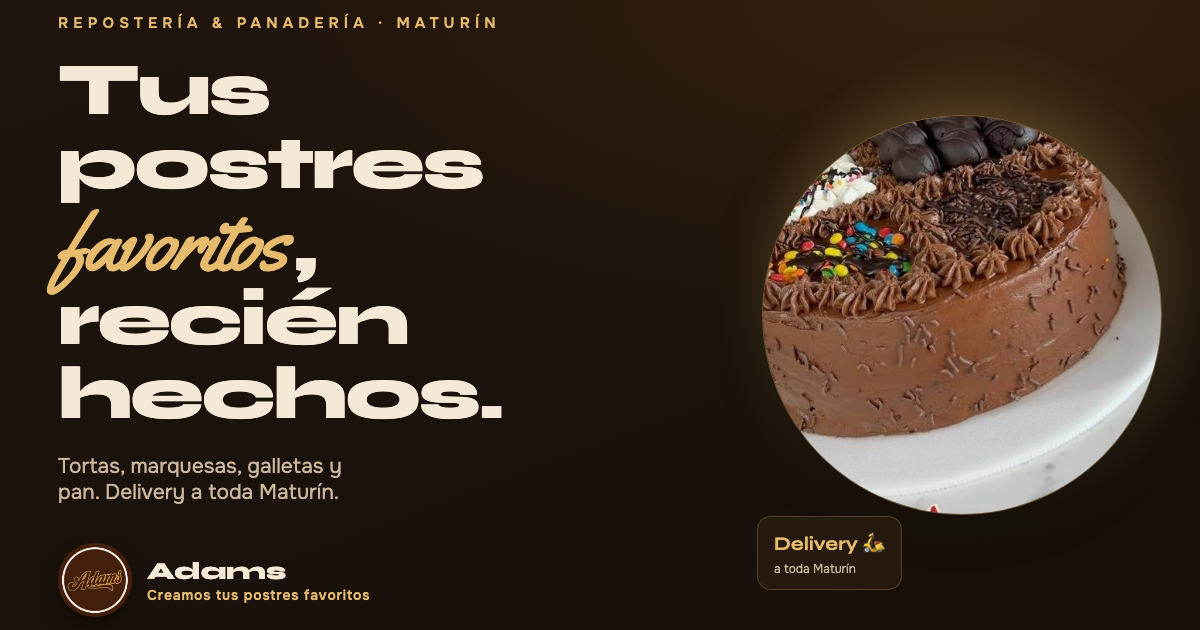
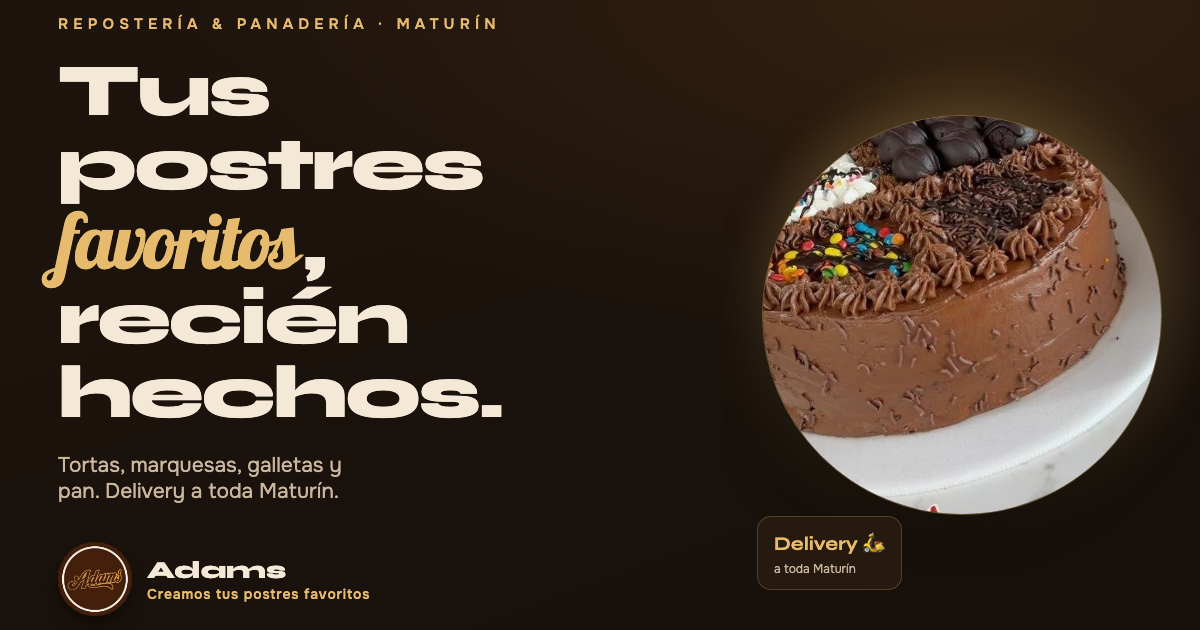
style(adams): «favoritos» pasa a Lobster (letrero retro) por preferencia de Ingrid

diff --git a/adams-maturin/preview.source.html b/adams-maturin/preview.source.html
@@ -1,7 +1,7 @@
 <!doctype html><html lang="es"><head><meta charset="utf-8">
 <link rel="preconnect" href="https://fonts.googleapis.com">
 <link rel="preconnect" href="https://fonts.gstatic.com" crossorigin>
-<link href="https://fonts.googleapis.com/css2?family=Syne:wght@700;800&family=Onest:wght@400;600&family=Yellowtail&display=swap" rel="stylesheet">
+<link href="https://fonts.googleapis.com/css2?family=Syne:wght@700;800&family=Onest:wght@400;600&family=Lobster&display=swap" rel="stylesheet">
 <style>
 *{margin:0;box-sizing:border-box}
 html,body{width:1200px;height:630px;overflow:hidden}
@@ -10,7 +10,7 @@ body{display:flex;font-family:"Onest",sans-serif;color:#F4E8D6;
 .left{flex:1.12;padding:64px 58px;display:flex;flex-direction:column;justify-content:center;position:relative}
 .eyebrow{font-size:15px;letter-spacing:.34em;text-transform:uppercase;color:#E6BB6E;font-weight:600;margin-bottom:20px}
 h1{font-family:"Syne";font-weight:800;font-size:74px;line-height:1.0;letter-spacing:-.03em}
-h1 em{font-family:"Yellowtail",cursive;font-weight:400;font-style:normal;color:#E6BB6E;font-size:1.12em;line-height:1;display:inline-block;padding-right:.1em}
+h1 em{font-family:"Lobster",cursive;font-weight:400;font-style:normal;color:#E6BB6E;font-size:1.04em;line-height:1;display:inline-block;padding-right:.08em}
 .sub{font-size:21px;color:#CBB79E;margin-top:22px;max-width:22ch}
 .brand{display:flex;align-items:center;gap:15px;margin-top:38px}
 .brand img{width:74px;height:74px;border-radius:50%;box-shadow:0 10px 24px -10px #000}

diff --git a/adams-maturin/index.html b/adams-maturin/index.html
@@ -22,7 +22,7 @@
 
 <link rel="preconnect" href="https://fonts.googleapis.com">
 <link rel="preconnect" href="https://fonts.gstatic.com" crossorigin>
-<link href="https://fonts.googleapis.com/css2?family=Syne:wght@600;700;800&family=Onest:wght@300;400;500;600;700&family=Yellowtail&display=swap" rel="stylesheet">
+<link href="https://fonts.googleapis.com/css2?family=Syne:wght@600;700;800&family=Onest:wght@300;400;500;600;700&family=Lobster&display=swap" rel="stylesheet">
 
 <style>
 :root{
@@ -91,7 +91,7 @@ img{max-width:100%;display:block}
 .hero-grid{position:relative;z-index:1;display:grid;grid-template-columns:1.08fr .92fr;gap:clamp(24px,5vw,60px);align-items:center;
   padding:clamp(40px,7vw,88px) 0 clamp(48px,8vw,96px)}
 .hero h1{font-size:clamp(3rem,7.6vw,6rem);letter-spacing:-.03em}
-.hero h1 em{font-family:"Yellowtail",cursive;font-weight:400;font-style:normal;color:var(--oro);font-size:1.16em;line-height:1;display:inline-block;padding:.06em .14em .12em .12em}
+.hero h1 em{font-family:"Lobster",cursive;font-weight:400;font-style:normal;color:var(--oro);font-size:1.08em;line-height:1;display:inline-block;padding:.04em .1em .1em .06em}
 .hero-lead{color:var(--crema-soft);font-size:clamp(1.05rem,1.6vw,1.25rem);max-width:34ch;margin-top:1.1em}
 .hero-cta{display:flex;flex-wrap:wrap;gap:.8rem;margin-top:1.9em}
 .hero-tags{display:flex;flex-wrap:wrap;gap:.5rem;margin-top:2rem}

diff --git a/REGISTRO.md b/REGISTRO.md
@@ -28,7 +28,7 @@ Base: `https://mnonline2001.github.io/medine-demos/<slug>/`
 | Deco Globos Yanher — floristería + globos + cajas de regalo (al lado de la UBV, Maturín) | `deco-globos` | **verde+dorado de su logo** (v2): mint #EBF2E0/#E1ECD2 + verde #46613E/#2E4A2B + dorado #AE853A/#8C671E; blush #EAC9CF de acento romántico | Marcellus + Hanken Grotesk; boutique romántica con aire; **base CLARA** (variante oscura propia) | boutique/atelier de flores: secciones numeradas + logo real (globo D/G, SVG fiel) + fotos en **marcos dorados con ramilletes florales** (SVG) + banda romántica con el logo; sin sección de precios/"bolsillos" | **"Arma tu ramo"**: ramo SVG que florece en vivo (`:has()`), wa.me armado "consulta el precio" (sin precios) + **lluvia de pétalos dorados al entrar** (SVG, respeta reduced-motion) + brillo `@property` en el hero; IO revelados | **tallo-nav** (desktop) + **hamburguesa→menú desplegable** (móvil, no full-screen) / **footer-herbario** con etiqueta de espécimen y ramillete | fotos en **marco dorado ornamental con ramillete floral** (SVG, NO mask-radial); **CTA botón-pétalo** (border-radius asimétrico, NO clip-path) | 2026-09-15 | PUBLICADA 2026-09-15 (v2 romántica verde+dorado con su logo real y pétalos dorados); WhatsApp 0424-939-9083 (584249399083); marca real "Deco Globos Yanher"; IG @decoglobosflores (Ingrid lo dio; el logo verificado también existe como @decoglobos.yanher 0424-171-5194 — confirmar cuál linkar); sin precios; gancho: no aparece en Google Maps y sus competidoras sí; pendiente: cambiar el logo SVG por el PNG real de la tienda |
 | Uniformes Munir — uniformes escolares/deportivos/corporativos + bordado/sublimación/láser (Calle Azcue, Maturín) | `uniformes-munir` | negro #16130E + **amarillo #F5C518** + **rojo #E4002B** (su marca, del logo real); base clara papel #FBFAF4 | Fjalla One + Mulish; bold retail/ofertas; base clara con hero y servicios en negro | landing-tienda de temporada escolar por institución (retail bold): usa su **logo real** y fotos reales (fachada, perchas, Mater Dei, deportivo, bordado) | **"Elige tu colegio o equipo"**: buscador con autocompletado (colegio/carrera/equipo — Mater Dei, Fermín Toro, Enfermería, tenis + texto libre) que recolorea un uniforme SVG genérico propio y arma el pedido por WhatsApp; motivo de **costura** (bordes punteados) como firma | barra negra con costura amarilla + hamburguesa→menú (móvil) / **footer "etiqueta de cuidado"** (tag de ropa con agujeros, costura y símbolos de cuidado) | tarjetas de catálogo con etiqueta-precio roja rotada y foto con zoom; CTA rojo/amarillo con contorno punteado (costura), NO clip-path | 2026-09-15 | demo lista y PUBLICADA; landing-tienda propia branded — se envía junto a **CASA** `tienda.medine.tech` (demo compartida de Francisco) para que prueben funcionalidades reales; NO rebrandear CASA. WhatsApp 0424-907-1043 (584249071043); IG @uniformesmunir; buscador con 4 instituciones de ejemplo (Ingrid pasará la lista real); prospecto grande/lento (grupo Munir multi-tienda), Google sin reclamar, dominio caído; contacto en persona (Ingrid dejó tarjeta 14-sep) |
 | Repostería La Doña de Oriente — repostería tradicional: tortas, encargos, raciones, dulces (Calle Monagas, frente a Plaza del Estudiante, Maturín) | `la-dona-de-oriente` | crema #FBF5EC/#F5EAD9 + tinta cacao-rosa #4A2A25/#7C4A46; **rosa polvo #E09CA5** + rosa fuerte #BE6B78 (acento, muestreado del logo); oro-rosa #C79A54/#EFD59A (foil); footer cacao casi-negro #1C120F | Bodoni Moda (Didone display) + Albert Sans; elegante-heritage con aire; **base CLARA** (variante oscura propia) | "crónica de aniversario": la biografía en **línea de tiempo** (1996→hoy, 28 años) entre hero, catálogo y contacto — vende la HISTORIA de Vilma & Luis (sección biográfica que pidió Ingrid) | **sello de aniversario con foil oro-rosa (@property conic) + vela SVG que titila** + composer "Encarga tu torta" (chips :has() → wa.me armado) + IO reveals | **nav medallón centrado** (logo redondo entre los links, se encoge al scroll; móvil = details-menu, no full-screen) / **footer-dedicatoria firmada** por Vilma & Luis (tarjeta de agradecimiento en cacao casi-negro) | **tarjetas arco de repostería** (arch-top, hover-zoom) con foto real; CTA **píldora oro-rosa** (sin clip-path, sin mask) | 2026-09-16 | PUBLICADA 2026-09-16; WhatsApp 584249314313 (0424-931.43.13, de su bio IG); IG @ladona_oriente_reposteria (5.540 seg); sin web previa; sin precios (no publican); fundadores Vilma Valero & esposo Luis; contacto Sr. Luis Campos; EST 1996; ganchos: sin web, historia solo contada por prensa, FB sin foto de perfil |
-| Adams — repostería &amp; panadería: tortas decoradas, tortas frías, marquesas, galletas, pan (Calle Monagas con Calle 7, Sector Centro, Maturín) | `adams-maturin` | base OSCURA espresso #17100B/#1E140D + panel #251910; **chocolate de marca #441F0B** + **oro #E6BB6E/#C59053** (muestreados del logo); crema texto #F4E8D6 | Syne (display grotesque bold) + Onest + **Yellowtail** (acento pincel retro grueso en «favoritos», elegido por Ingrid — eco del logo de Adams); **base OSCURA cinematográfica** (rompe la racha clara de reposterías y CONTRASTA a propósito con La Doña, mismo rubro/calle) | "escaparate goloso nocturno / editorial oscuro": hero con el producto en disco iluminado + marquee dorado + especialidades en **bandas editoriales a foto completa alternadas 01–04** (NO grid de tarjetas) | **reflector dorado que sigue el cursor** en el hero (mousemove→radial-gradient; táctil = órbita CSS) + **marquee dorado** de especialidades + disco con anillo giratorio + IO reveals | barra oscura translúcida con filete dorado (se solidifica al scroll), logo dorado izq + CTA "Pedir"; móvil = details-menu / **footer oscuro** con wordmark "Adams" gigante + RIF + grid de contacto | **bandas a foto completa** (marco con degradado inferior + hover-zoom, `minmax(0,1fr)`) + **chips-antojo dorados** que enlazan wa.me directo; CTA píldora dorada con glow (sin clip-path, sin mask) | 2026-09-16 | PUBLICADA 2026-09-16; WhatsApp 584126441840 (0412-644-1840, del wa.link de su bio); IG @adams_maturin (3.113 seg); sin web previa; RIF J-50228043-0; delivery a toda Maturín; sin precios; ganchos: sin web (su feed es 100% gráficas de IG, no una web real), delivery sin canal propio; ⚠ mismo rubro y calle que La Doña → por eso base oscura y arquetipo opuestos |
+| Adams — repostería &amp; panadería: tortas decoradas, tortas frías, marquesas, galletas, pan (Calle Monagas con Calle 7, Sector Centro, Maturín) | `adams-maturin` | base OSCURA espresso #17100B/#1E140D + panel #251910; **chocolate de marca #441F0B** + **oro #E6BB6E/#C59053** (muestreados del logo); crema texto #F4E8D6 | Syne (display grotesque bold) + Onest + **Lobster** (acento pincel/letrero retro grueso en «favoritos», elegido por Ingrid — eco del logo de Adams); **base OSCURA cinematográfica** (rompe la racha clara de reposterías y CONTRASTA a propósito con La Doña, mismo rubro/calle) | "escaparate goloso nocturno / editorial oscuro": hero con el producto en disco iluminado + marquee dorado + especialidades en **bandas editoriales a foto completa alternadas 01–04** (NO grid de tarjetas) | **reflector dorado que sigue el cursor** en el hero (mousemove→radial-gradient; táctil = órbita CSS) + **marquee dorado** de especialidades + disco con anillo giratorio + IO reveals | barra oscura translúcida con filete dorado (se solidifica al scroll), logo dorado izq + CTA "Pedir"; móvil = details-menu / **footer oscuro** con wordmark "Adams" gigante + RIF + grid de contacto | **bandas a foto completa** (marco con degradado inferior + hover-zoom, `minmax(0,1fr)`) + **chips-antojo dorados** que enlazan wa.me directo; CTA píldora dorada con glow (sin clip-path, sin mask) | 2026-09-16 | PUBLICADA 2026-09-16; WhatsApp 584126441840 (0412-644-1840, del wa.link de su bio); IG @adams_maturin (3.113 seg); sin web previa; RIF J-50228043-0; delivery a toda Maturín; sin precios; ganchos: sin web (su feed es 100% gráficas de IG, no una web real), delivery sin canal propio; ⚠ mismo rubro y calle que La Doña → por eso base oscura y arquetipo opuestos |
 
 ## Tarjetas de vista previa (og:image)
 
